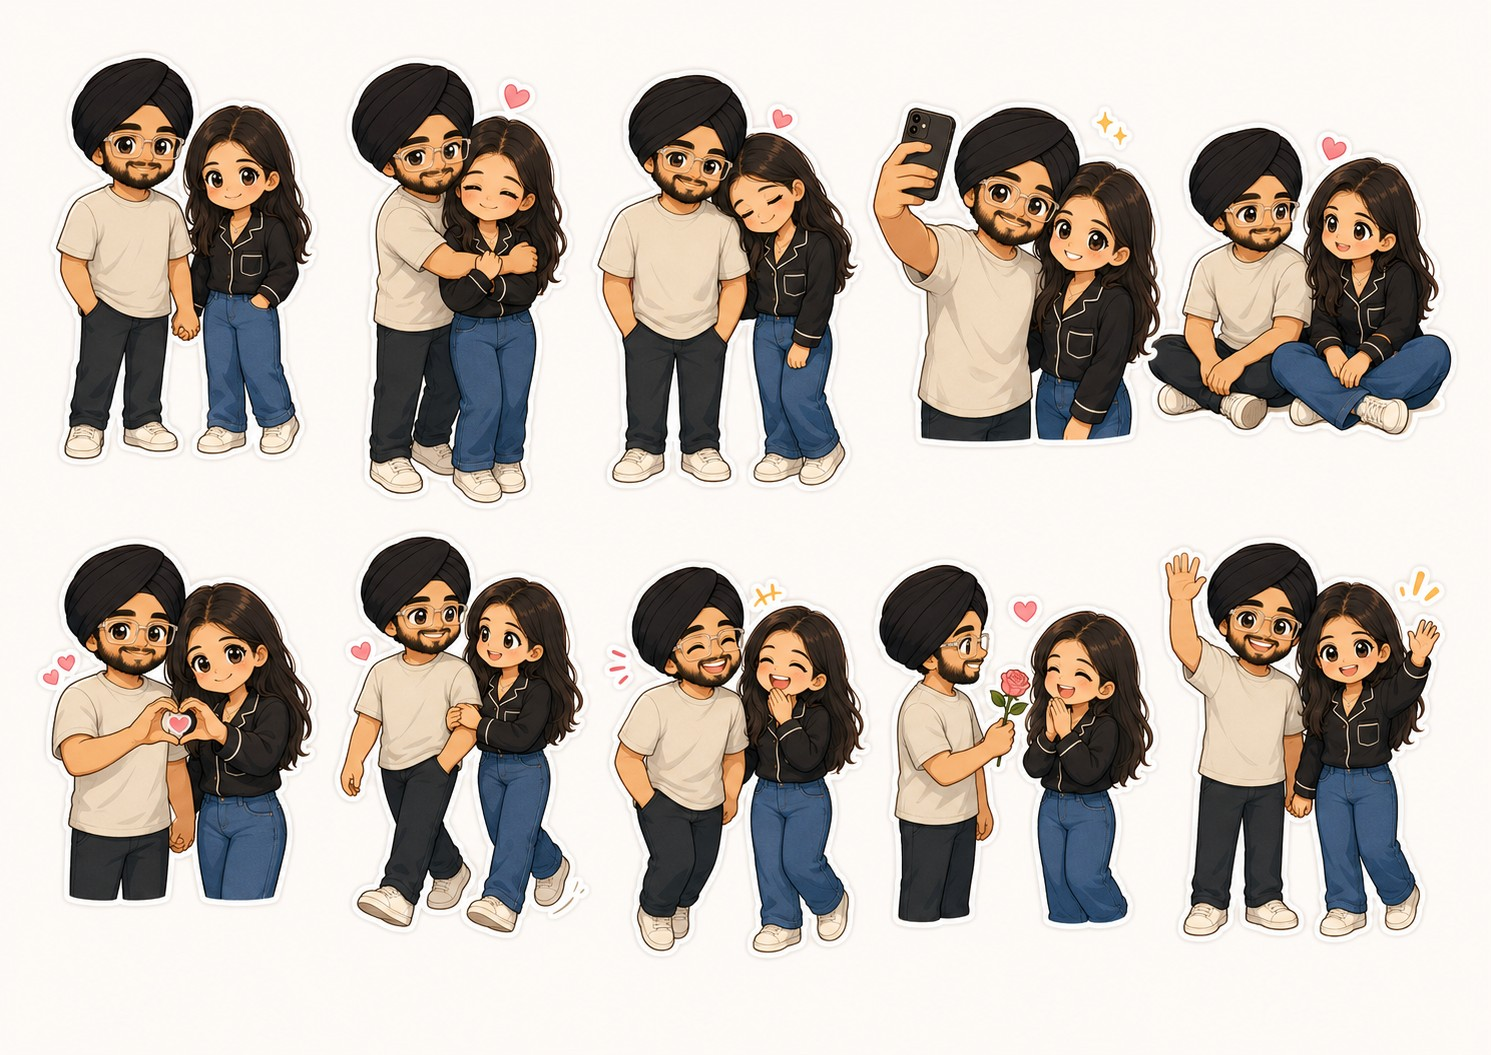
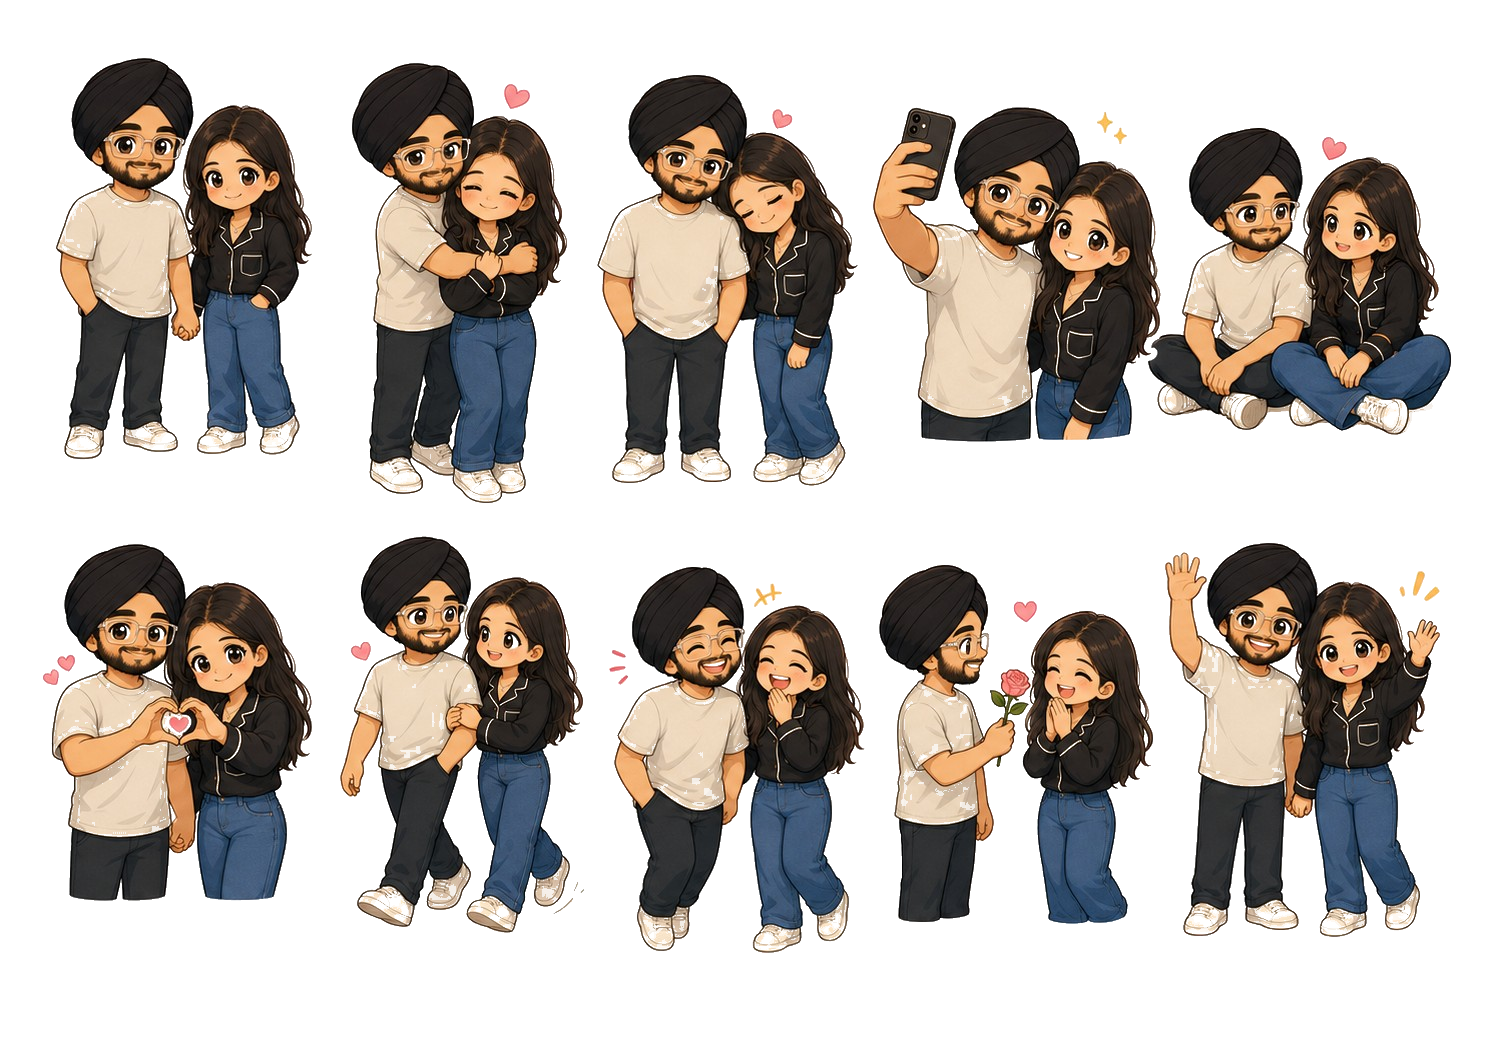
Remove white background from stickers + fix crops
- Process sticker sheet with Pillow to make white/cream bg transparent
- Remove border-radius from sticker component (no white card needed)
- Tighten waving sticker crop to prevent bleed
- Add cache buster for updated PNG

diff --git a/src/components/Sticker.tsx b/src/components/Sticker.tsx
@@ -11,7 +11,7 @@ const poses = {
   walking: { x: 275, y: 535, w: 245, h: 510 },
   laughing: { x: 528, y: 525, w: 290, h: 520 },
   rose: { x: 840, y: 530, w: 260, h: 510 },
-  waving: { x: 1128, y: 525, w: 350, h: 520 },
+  waving: { x: 1150, y: 525, w: 335, h: 520 },
 } as const;
 
 export type StickerPose = keyof typeof poses;
@@ -34,15 +34,14 @@ export default function Sticker({ pose, size = 160, className = "" }: StickerPro
         width: displayW,
         height: size,
         overflow: "hidden",
-        borderRadius: size * 0.12,
-        filter: "drop-shadow(0 4px 20px rgba(233, 30, 140, 0.3))",
+        filter: "drop-shadow(0 4px 16px rgba(0, 0, 0, 0.4))",
       }}
     >
       <div
         style={{
           width: SHEET_W * scale,
           height: SHEET_H * scale,
-          backgroundImage: "url(/images/stickers.png)",
+          backgroundImage: "url(/images/stickers.png?v=2)",
           backgroundSize: `${SHEET_W * scale}px ${SHEET_H * scale}px`,
           backgroundPosition: `-${p.x * scale}px -${p.y * scale}px`,
           backgroundRepeat: "no-repeat",
